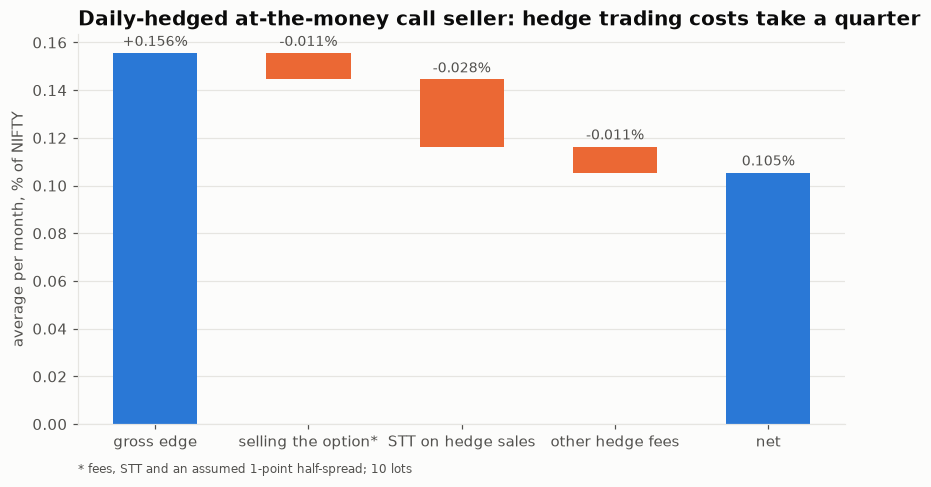
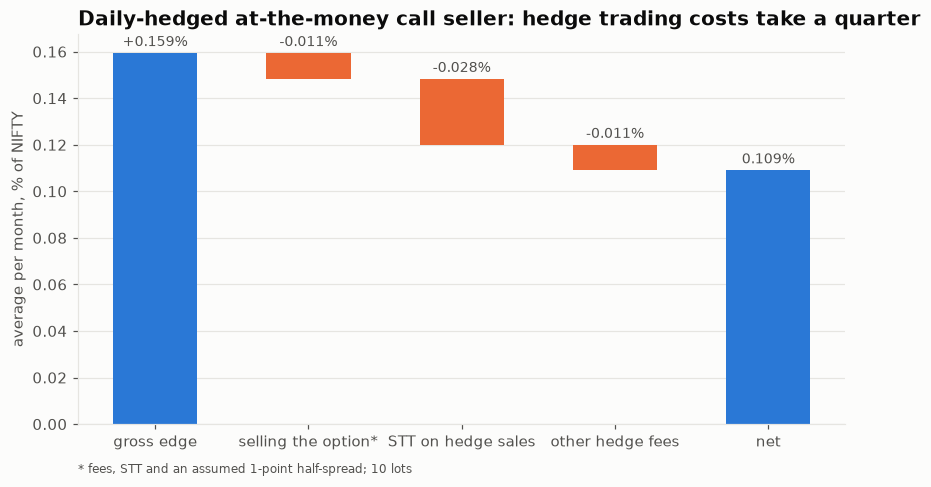
fix: use a month only once its expiry has passed in the price data, and harden the Merton series
The latest month expired today and was settled at an intraday price, moving the unhedged total
from -16% to -24%; hedge, cost and implied-vs-realised results now skip months still in progress.
Merton prices now sum the Poisson series where many jumps are expected. Also clearer README cost
and accuracy wording, and calculator accessibility fixes.

diff --git a/src/bsp/calculator.html b/src/bsp/calculator.html
@@ -1,17 +1,17 @@
 <form class="calc" id="calc" onsubmit="return false">
-  <label>Spot <input name="spot" type="number" step="any" value="25000" inputmode="decimal"></label>
-  <label>Strike <input name="strike" type="number" step="any" value="25000" inputmode="decimal"></label>
-  <label>Days to expiry <input name="days" type="number" step="any" value="30" inputmode="decimal"></label>
-  <label>Volatility % <input name="vol" type="number" step="any" value="15" inputmode="decimal"></label>
-  <label>Risk-free rate % <input name="rate" type="number" step="any" value="6.5" inputmode="decimal"></label>
-  <label>Dividend yield % <input name="div" type="number" step="any" value="0" inputmode="decimal"></label>
-  <label>Futures price, optional <input name="fut" type="number" step="any" placeholder="uses Black-76" inputmode="decimal"></label>
+  <label>Spot <input name="spot" type="number" step="any" value="25000" inputmode="decimal" autocomplete="off"></label>
+  <label>Strike <input name="strike" type="number" step="any" value="25000" inputmode="decimal" autocomplete="off"></label>
+  <label>Days to expiry <input name="days" type="number" step="any" value="30" inputmode="decimal" autocomplete="off"></label>
+  <label>Volatility % <input name="vol" type="number" step="any" value="15" inputmode="decimal" autocomplete="off"></label>
+  <label>Risk-free rate % <input name="rate" type="number" step="any" value="6.5" inputmode="decimal" autocomplete="off"></label>
+  <label>Dividend yield % <input name="div" type="number" step="any" value="0" inputmode="decimal" autocomplete="off"></label>
+  <label>Futures price (Black-76), optional <input name="fut" type="number" step="any" placeholder="e.g. 25100…" inputmode="decimal" autocomplete="off"></label>
 </form>
-<div class="table-scroll"><table class="data" aria-live="polite">
+<div class="table-scroll"><table class="data">
   <thead><tr><th scope="col"></th><th scope="col">Call</th><th scope="col">Put</th></tr></thead>
   <tbody id="calc-out"></tbody>
 </table></div>
-<p class="note" id="calc-parity"></p>
+<p class="note" id="calc-parity" aria-live="polite"></p>
 <script>
 $js
 (() => {
@@ -26,7 +26,7 @@ $js
     const c = bsPrice(under, v.strike, t, r, s, "call", q);
     const p = bsPrice(under, v.strike, t, r, s, "put", q);
     out.innerHTML = `<tr><th scope="row">Price</th><td>${fmt(c)}</td><td>${fmt(p)}</td></tr>` +
-      `<tr><th scope="row">% of spot</th><td>${fmt(100 * c / v.spot)}%</td><td>${fmt(100 * p / v.spot)}%</td></tr>`;
+      `<tr><th scope="row">% of ${b76 ? "futures" : "spot"}</th><td>${fmt(100 * c / under)}%</td><td>${fmt(100 * p / under)}%</td></tr>`;
     const gc = bsGreeks(under, v.strike, t, r, s, "call", q), gp = bsGreeks(under, v.strike, t, r, s, "put", q);
     if (gc && gp) {
       if (b76) gc.rho = gp.rho = NaN;  // rate sensitivity differs when the futures price is held fixed

diff --git a/src/bsp/reports.py b/src/bsp/reports.py
@@ -227,7 +227,10 @@ GRID = np.round(np.arange(0.88, 1.1201, 0.01), 2)
 
 
 def realised_vol(s: pd.Series, start, end) -> float:
-    """Annualised volatility of daily log returns from `start` to `end` (both included)."""
+    """Annualised volatility of daily log returns from `start` to `end` (both included).
+    NaN until the prices run past `end`, so a window is never measured part-way."""
+    if s.index.max() <= end:
+        return float("nan")
     r = np.log(s[(s.index >= start) & (s.index <= end)]).diff().dropna()
     return float(np.sqrt((r**2).mean() * 252)) if len(r) > 3 else float("nan")
 
@@ -274,8 +277,9 @@ def report_iv(out_dir: Path) -> dict:
     plots.save(fig, out_dir, "iv_smile")
 
     keys = {"iv95": "95% put", "iv100": "at the money", "iv105": "105% call"}
-    gap = {k: float((summary[k] - summary["realised"]).median() * 100) for k in keys}
-    share = {k: float((summary[k] > summary["realised"]).mean()) for k in keys}
+    done = summary.dropna(subset=["realised"])  # months whose expiry has passed
+    gap = {k: float((done[k] - done["realised"]).median() * 100) for k in keys}
+    share = {k: float((done[k] > done["realised"]).mean()) for k in keys}
     fig, ax = plt.subplots(figsize=(9, 4.6))
     xs = np.arange(len(keys))
     ax.bar(xs, list(gap.values()), 0.55, color=plots.SERIES[0])
@@ -327,10 +331,14 @@ def hedge_table(iv: pd.DataFrame, s: pd.Series, every: int = 1) -> pd.DataFrame:
     delta-hedge with NIFTY until expiry. P&L as a fraction of NIFTY at the sale.
 
     The dividend yield comes from the options' own forward: q = r - ln(F / S) / T. If the expiry
-    was a holiday, the last trading day before it counts as expiry.
+    was a holiday, the last trading day before it counts as expiry. Months whose expiry is not
+    yet past in the price data are skipped.
     """
     rows = []
     for day, x in iv.iterrows():
+        # Only months whose expiry has passed in the data: the expiry-day close must be final.
+        if s.index.max() <= x["expiry"]:
+            continue
         path = s[(s.index >= day) & (s.index <= x["expiry"])]
         if len(path) < 5:
             continue

diff --git a/tests/test_reports.py b/tests/test_reports.py
@@ -1,0 +1,32 @@
+import numpy as np
+import pandas as pd
+
+from bsp.reports import hedge_table, realised_vol
+
+
+def _iv_row(day, expiry):
+    return pd.DataFrame({"expiry": [pd.Timestamp(expiry)], "forward": [25100.0], "iv100": [0.15],
+                         "iv95": [0.18], "realised": [0.14]}, index=[pd.Timestamp(day)])
+
+
+def _prices(end):
+    days = pd.bdate_range("2026-11-02", end)
+    return pd.Series(25000 * np.exp(np.linspace(0, 0.02, len(days))), index=days)
+
+
+def test_month_is_skipped_until_prices_run_past_expiry():
+    iv = _iv_row("2026-11-02", "2026-11-24")
+    assert hedge_table(iv, _prices("2026-11-24")).empty  # expiry-day close may be intraday
+    assert len(hedge_table(iv, _prices("2026-11-25"))) == 2  # both legs once final
+
+
+def test_holiday_expiry_settles_on_the_last_trading_day():
+    s = _prices("2026-11-30").drop(pd.Timestamp("2026-11-24"))  # expiry day is a holiday
+    assert len(hedge_table(_iv_row("2026-11-02", "2026-11-24"), s)) == 2
+
+
+def test_realised_vol_needs_the_whole_window():
+    s = _prices("2026-11-20")
+    assert np.isnan(realised_vol(s, pd.Timestamp("2026-11-02"), pd.Timestamp("2026-11-24")))
+    assert np.isfinite(realised_vol(_prices("2026-11-25"), pd.Timestamp("2026-11-02"),
+                                    pd.Timestamp("2026-11-24")))

diff --git a/src/bsp/merton.py b/src/bsp/merton.py
@@ -8,7 +8,7 @@ The price is a Poisson-weighted sum of Black-Scholes prices, one for each number
     sigma_n^2 = sigma^2 + n delta^2 / T,   r_n = r - lam k + n ln(1 + k) / T
 """
 
-from math import factorial
+from math import lgamma, log
 
 import numpy as np
 
@@ -17,14 +17,15 @@ from bsp.bs import bs_price
 
 def merton_price(s, k, t, r, sigma, kind: str = "call", q: float = 0.0, lam: float = 0.0,
                  mu_j: float = 0.0, delta: float = 0.0, terms: int = 40):
-    if lam == 0:
+    if lam == 0 or t <= 0:
         return bs_price(s, k, t, r, sigma, kind, q)
     kbar = np.exp(mu_j + 0.5 * delta**2) - 1
-    lam2 = lam * (1 + kbar)
+    lam2t = lam * (1 + kbar) * t  # expected number of jumps under the pricing measure
+    last = max(terms, int(lam2t + 10 * np.sqrt(lam2t)) + 10)  # cover the Poisson bulk
     total = 0.0
-    for n in range(terms):
-        weight = np.exp(-lam2 * t) * (lam2 * t) ** n / factorial(n)
-        if n > 5 and weight < 1e-14:
+    for n in range(last + 1):
+        weight = np.exp(-lam2t + n * log(lam2t) - lgamma(n + 1))
+        if n > lam2t and weight < 1e-14:
             break
         sig_n = np.sqrt(sigma**2 + n * delta**2 / t)
         r_n = r - lam * kbar + n * np.log1p(kbar) / t

diff --git a/tests/test_merton.py b/tests/test_merton.py
@@ -44,3 +44,15 @@ def test_fit_smile_recovers_a_jump_smile():
     fit = fit_smile(m, iv, t, R)
     assert fit["rmse"] < 0.001  # within 0.1 vol point
     assert fit["mu_j"] < 0 and 0.5 < fit["lam"] < 8
+
+
+def test_many_expected_jumps_still_sum_correctly():
+    price = merton_price(100.0, 100.0, 1.0, 0.05, 0.2, "call", lam=50, mu_j=0.0, delta=0.01)
+    mc, se = merton_mc(100.0, 100.0, 1.0, 0.05, 0.2, "call", lam=50, mu_j=0.0, delta=0.01,
+                       n_paths=200_000, seed=5)
+    assert abs(price - mc) < 4 * se
+
+
+def test_at_expiry_is_intrinsic():
+    assert merton_price(110.0, 100.0, 0.0, 0.05, 0.2, "call", lam=1, mu_j=-0.1,
+                        delta=0.05) == pytest.approx(10.0)

diff --git a/README.md b/README.md
@@ -78,7 +78,7 @@ tested against finite differences and shown live in the [calculator](https://dhi
   0.35% of days against 0.27%. The top 1% of days earned back about half of the holder's daily losses;
   the holder still finished behind. This is the volatility risk premium seen one day at a time.
 - **Delta and gamma predict a day's option price change well, until a jump:** for a 30-day at-the-money
-  call, delta + gamma + theta missed the real change by a median 0.03% of the option's price, 0.37% on days
+  call, delta + gamma + theta missed a full Black-Scholes reprice (volatility held at the previous VIX) by a median 0.03% of the option's price, 0.37% on days
   NIFTY moved more than 3%, and 9.2% on 20 Sep 2019 (the corporate-tax-cut day, NIFTY +5.2%).
 
 ### 3. Real NIFTY options charge more for crash protection than Black-Scholes allows, in every month since 2015
@@ -94,7 +94,7 @@ about four weeks out; 143 months, 2015–2026) shows a lopsided smile instead.
 - **It never flipped.** The 95% put sat above the 105% call in all 143 months, by a median 4.4 points
   (2.7 to 6.4 in nine months out of ten). The widest gap was 10.1 points, on 1 Apr 2020, after the crash.
 - The forward price comes from put-call parity at the at-the-money strike, so no dividend guess is
-  needed; it matched NIFTY futures to within 0.08% every month.
+  needed; it matched NIFTY futures to within 0.1% every month.
 
 <table><tr>
 <td><a href="docs/img/iv_premium.png"><picture><source media="(prefers-reduced-motion: reduce)" srcset="docs/img/iv_premium.png"><img src="docs/img/iv_premium.gif" alt="Implied minus realised volatility for the 95% put, at-the-money option and 105% call"></picture></a></td>
@@ -102,8 +102,8 @@ about four weeks out; 143 months, 2015–2026) shows a lopsided smile instead.
 </tr></table>
 
 - **Crash protection was the most overpriced part:** against the volatility NIFTY actually showed until
-  expiry, the 95% put's implied vol was a median 5.4 points too high (higher in 90% of months), the
-  at-the-money option's 2.0 points (70%) and the 105% call's 1.1 points (58%).
+  expiry (142 months whose expiry has passed), the 95% put's implied vol was a median 5.4 points too high (higher in 90% of months), the
+  at-the-money option's 2.0 points (70%) and the 105% call's 1.2 points (59%).
 - **Until it wasn't:** on 2 Mar 2020 the 95% put was priced at 28% volatility; NIFTY then moved at 88%.
 - India VIX averages across strikes, including the expensive puts, so the at-the-money implied vol ran
   a median 1.4 points below it. That is why finding 1, which priced at-the-money options at India VIX,
@@ -113,16 +113,16 @@ about four weeks out; 143 months, 2015–2026) shows a lopsided smile instead.
 
 <a href="docs/img/hedge_cumulative.png"><picture><source media="(prefers-reduced-motion: reduce)" srcset="docs/img/hedge_cumulative.png"><img src="docs/img/hedge_cumulative.gif" alt="Cumulative P&L of selling a monthly at-the-money NIFTY call, hedged daily vs unhedged" width="720"></picture></a>
 
-Each month (143 months, 2015–2026), sell the at-the-money NIFTY call and, separately, the 95% put at
+Each month (142 months whose expiry has passed, 2015–2026), sell the at-the-money NIFTY call and, separately, the 95% put at
 their real implied volatilities from finding 3, then hold delta units of NIFTY, rebalanced at each
 day's close, until expiry. The dividend yield comes from the options' own forward. Before trading costs
 (section 6 adds them).
 
-- **Risk fell to a sixth:** the at-the-money call's monthly P&L swung by 2.53% of NIFTY unhedged and
-  0.44% hedged daily (0.75% hedged weekly).
-- **The sign flipped:** unhedged, selling the call lost 0.17% a month on average (−24% in total, mostly
-  in the 2020–21 rally); hedged, it made 0.16% a month (+22% in total) and won 69% of months.
-- **The 95% put:** hedged, it made 0.09% a month and won 83% of months; its worst month, March 2020,
+- **Risk fell to a sixth:** the at-the-money call's monthly P&L swung by 2.44% of NIFTY unhedged and
+  0.44% hedged daily (0.73% hedged weekly).
+- **The sign flipped:** unhedged, selling the call lost 0.11% a month on average (−16% in total, mostly
+  in the 2020–21 rally); hedged, it made 0.16% a month (+23% in total) and won 70% of months.
+- **The 95% put:** hedged, it made 0.09% a month and won 84% of months; its worst month, March 2020,
   lost 2.9% of NIFTY hedged against 16.2% unhedged.
 
 <table><tr>
@@ -174,19 +174,19 @@ closing prices but no quotes, so the option's bid-ask spread is an assumption, t
 points each way.
 
 - **The option's own costs are small:** selling the at-the-money call cost 0.003% of NIFTY in fees and
-  taxes (₹86 a lot at a ₹500 premium), 0.011% with a 1-point half-spread.
+  taxes (₹65 a lot in the 10-lot book at a ₹500 premium; ₹86 for a single lot, as the calculator shows), 0.011% with a 1-point half-spread.
 - **The daily futures hedge is the expensive part:** it traded 1.6 times the position's value each month,
   and its costs came to 0.039% of NIFTY a month, 72% of that STT on futures sales. Together, costs took
-  the hedged call seller from 0.156% to 0.105% a month (0.098% to 0.113% across the spread assumptions);
-  the 95% put seller from 0.094% to 0.060%.
+  the hedged call seller from 0.159% to 0.109% a month (0.101% to 0.117% across the spread assumptions);
+  the 95% put seller from 0.095% to 0.061%.
 - **The April 2026 STT rise matters for hedgers:** at the previous rates the same hedge cost 0.022% a
   month instead of 0.039%.
 - **Hedging less often cut costs but earned less before costs too.** Weekly hedging halved the hedge
-  costs, but the at-the-money seller's gross edge fell from 0.156% to 0.008% a month (paired t = 3.3), so
-  it netted −0.022%. The cause isn't established: NIFTY's weekly moves inside these months were only
+  costs, but the at-the-money seller's gross edge fell from 0.159% to 0.022% a month (paired t = 3.1), so
+  it netted −0.007%. The cause isn't established: NIFTY's weekly moves inside these months were only
   slightly larger than its daily moves implied (variance ratio 1.06, not significant), which explains
-  about a third of the gap.
-- **Buying the 95% put as monthly protection** cost its holder 0.097% of NIFTY a month after costs
+  only part of the gap.
+- **Buying the 95% put as monthly protection** cost its holder 0.096% of NIFTY a month after costs
   (1-point spread), about 1.2% a year.
 
 ### 7. Adding crash jumps fits the smile, but the fitted crashes don't match NIFTY's history or stay put
